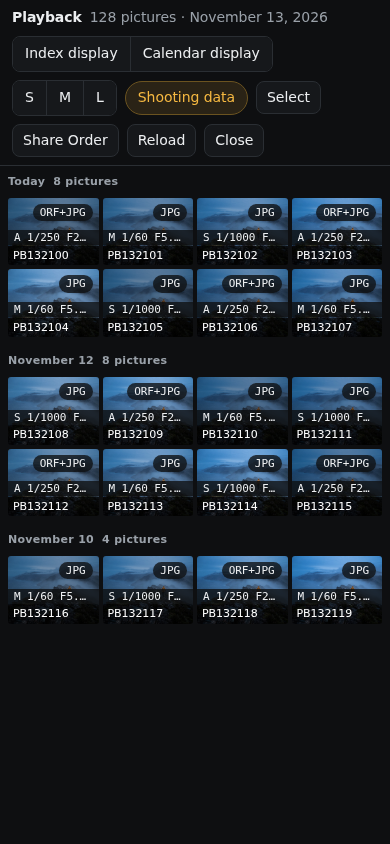
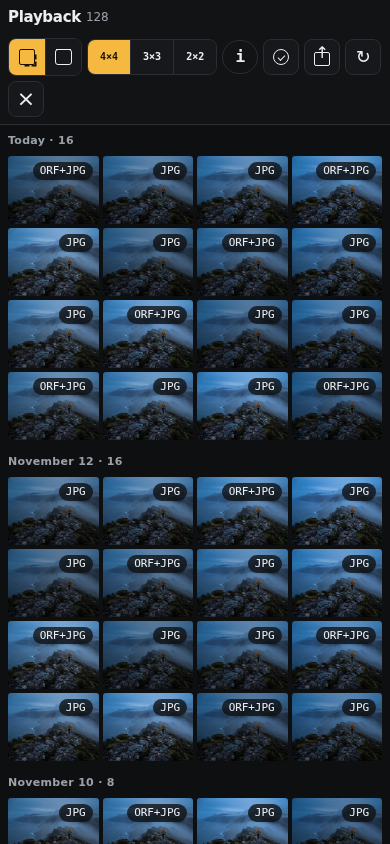
Simplify playback navigation
Add iOS-style pinch grid zoom through 2x2, 3x3, 4x4, and calendar; reduce toolbar text; refine the full-picture viewer; and refresh playback previews.

Figma-Prompt-ID: 170
Figma-Session-ID: 9e63d428-c352-4131-b44d-27a1b17f3922

diff --git a/omcap/web/index.html b/omcap/web/index.html
@@ -232,6 +232,38 @@ dialog h2{margin-top:12px}
 
 #viewer button{background:var(--surface);color:var(--text);border-color:var(--line)}
 #viewer button.on{background:var(--accent);color:var(--accent-ink)}
+.sr-only{position:absolute!important;width:1px!important;height:1px!important;padding:0!important;margin:-1px!important;overflow:hidden!important;clip:rect(0,0,0,0)!important;white-space:nowrap!important;border:0!important}
+#galBody{padding:12px;touch-action:pan-y;overscroll-behavior:contain}
+#galOv .galbar{min-height:54px;padding:8px 14px;background:#111315}
+#galOv .galbar strong{font-size:var(--fs-heading);letter-spacing:-.02em}
+#galCount{font-size:var(--fs-meta);white-space:nowrap}
+.gallery-icon{position:relative;width:36px!important;min-width:36px;height:36px!important;padding:0!important;font-size:0!important;display:inline-flex;align-items:center;justify-content:center}
+.gallery-icon::before,.gallery-icon::after{content:"";position:absolute;display:block}
+.icon-index::before{width:14px;height:14px;border:1.5px solid currentColor;border-radius:2px;box-shadow:7px 0 0 -5.5px currentColor,0 7px 0 -5.5px currentColor,7px 7px 0 -5.5px currentColor}
+.icon-calendar::before{width:15px;height:14px;border:1.5px solid currentColor;border-radius:3px}
+.icon-calendar::after{width:15px;height:4px;top:10px;border-top:1.5px solid currentColor}
+.icon-info::before{content:"i";position:static;font:700 16px/1 var(--font-value)}
+.icon-select::before{width:14px;height:14px;border:1.5px solid currentColor;border-radius:50%}
+.icon-select::after{width:6px;height:3px;border:solid currentColor;border-width:0 0 1.5px 1.5px;transform:rotate(-45deg);top:15px}
+.icon-share::before{width:14px;height:12px;border:1.5px solid currentColor;border-radius:2px;bottom:8px}
+.icon-share::after{content:"↑";position:static;font:16px/1 var(--font-ui);transform:translateY(-4px)}
+.icon-reload::before{content:"↻";position:static;font:18px/1 var(--font-ui)}
+.icon-close::before{content:"×";position:static;font:22px/1 var(--font-ui)}
+.icon-fit::before{width:14px;height:14px;border:1.5px dashed currentColor;border-radius:2px}
+.icon-download::before{content:"↓";position:static;font:18px/1 var(--font-ui)}
+.icon-overlay::before{width:13px;height:13px;border:1.5px solid currentColor;border-radius:2px;box-shadow:4px -4px 0 -2px #111315,4px -4px 0 -1px currentColor}
+.grid-size{font-size:0!important}
+.grid-size::after{font:600 10px/1 var(--font-value)}
+.grid-size[data-sz="4"]::after{content:"2×2"}
+.grid-size[data-sz="9"]::after{content:"3×3"}
+.grid-size[data-sz="16"]::after{content:"4×4"}
+#galExifTog{width:36px;padding:0;justify-content:center}
+#galExifTog .icon-info{display:flex;align-items:center;justify-content:center}
+#galExifTog .icon-info::before{content:"i";font:700 16px/1 var(--font-value)}
+.gidx{transform-origin:center top;transition:opacity var(--t-fast),transform var(--t-fast)}
+#viewer .galbar{min-height:54px;border-color:#2a2d31;background:rgba(10,11,13,.94);flex-wrap:nowrap}
+#viewer #vInfo{min-width:0;overflow:hidden;text-overflow:ellipsis;white-space:nowrap;font-size:var(--fs-meta);color:var(--muted)}
+#viewer .gallery-icon{flex:0 0 38px}
 .chip{display:inline-flex;gap:6px;align-items:center;background:var(--surface);border:1px solid var(--line);border-radius:var(--r-pill);padding:3px 10px;font-size:var(--fs-label)}
 body.single{background:#000;height:100vh;overflow:hidden}
 body.webcam{cursor:none;display:flex;align-items:center;justify-content:center}
@@ -401,6 +433,16 @@ section h2{margin-bottom:10px;color:#b9bec4;font-size:var(--fs-label);font-weigh
   label[data-feat=lvsize]{display:none!important}
   #panels{gap:8px}
   #panelNav button{height:50px}
+  #galOv .galbar{gap:5px;padding:7px 8px}
+  #galCount{max-width:180px;overflow:hidden;text-overflow:ellipsis}
+  #galOv .galbar>.sp{display:block;flex-basis:100%;height:0;margin:0}
+  #galBody{padding:8px}
+  .gidx{gap:4px}
+  .dayh{margin-top:14px}
+  .tile .cap{font-size:9px;padding:1px 4px}
+  #viewer .galbar{padding:6px 8px;gap:4px}
+  #viewer #vInfo{position:absolute;left:12px;right:12px;bottom:10px;z-index:3;padding:5px 8px;border-radius:var(--r-pill);background:rgba(10,11,13,.78);text-align:center}
+  #viewer .galbar>.sp{margin-left:auto}
   section{padding:12px}
   #props label{min-height:62px}
   #shutRow{display:flex;justify-content:center;gap:14px}
@@ -664,19 +706,19 @@ section h2{margin-bottom:10px;color:#b9bec4;font-size:var(--fs-label);font-weigh
     <span id="galChip" class="chip" hidden></span>
     <span class="sp"></span>
     <div class="seg" role="group" data-i18n-aria="card.display" aria-label="Display">
-      <button data-v="index" data-i18n="card.index">Index display</button><button data-v="cal" data-i18n="card.calendar">Calendar display</button>
+      <button class="gallery-icon icon-index" data-v="index" data-i18n-title="card.index"><span class="sr-only" data-i18n="card.index">Index display</span></button><button class="gallery-icon icon-calendar" data-v="cal" data-i18n-title="card.calendar"><span class="sr-only" data-i18n="card.calendar">Calendar display</span></button>
     </div>
     <div class="seg" role="group" data-i18n-aria="card.sizes" aria-label="Thumbnail size">
-      <button data-sz="25" data-i18n="card.sizeS">S</button><button data-sz="9" data-i18n="card.sizeM">M</button><button data-sz="4" data-i18n="card.sizeL">L</button>
+      <button class="grid-size" data-sz="16" data-i18n-aria="card.grid4">4×4</button><button class="grid-size" data-sz="9" data-i18n-aria="card.grid3">3×3</button><button class="grid-size" data-sz="4" data-i18n-aria="card.grid2">2×2</button>
     </div>
-    <label class="tog" id="galExifTog"><input type="checkbox" id="galExif"> <span data-i18n="card.exifLine">Shooting data</span></label>
-    <button id="galSelect" data-i18n="card.select">Select</button>
+    <label class="tog" id="galExifTog"><input type="checkbox" id="galExif"><span class="icon-info" aria-hidden="true"></span><span class="sr-only" data-i18n="card.exifLine">Shooting data</span></label>
+    <button id="galSelect" class="gallery-icon icon-select" data-i18n-title="card.select">Select</button>
     <button id="galSaveSel" hidden data-i18n="card.saveSel">Save selected</button>
-    <button id="galShare" data-feat="share_order" data-i18n="card.share">Share Order</button>
+    <button id="galShare" class="gallery-icon icon-share" data-feat="share_order" data-i18n-title="card.share">Share Order</button>
     <button id="galShareSave" data-feat="share_order" data-i18n="card.shareSave" hidden>Save all to computer</button>
     <button id="galShareReset" data-feat="share_order" data-i18n="card.shareReset" hidden>Reset Share Order</button>
-    <button id="galReload" data-i18n="card.reload">Reload</button>
-    <button id="galClose" data-i18n="card.close">Close</button>
+    <button id="galReload" class="gallery-icon icon-reload" data-i18n-title="card.reload">Reload</button>
+    <button id="galClose" class="gallery-icon icon-close" data-i18n-title="card.close">Close</button>
   </div>
   <div id="galBody"></div>
 </div>
@@ -685,9 +727,9 @@ section h2{margin-bottom:10px;color:#b9bec4;font-size:var(--fs-label);font-weigh
     <button id="vPrev" aria-label="Previous picture" data-i18n-aria="card.prev">‹</button><button id="vNext" aria-label="Next picture" data-i18n-aria="card.next">›</button>
     <span id="vInfo"></span>
     <span class="sp"></span>
-    <button id="vInfoBtn" data-i18n-title="info.title"></button>
-    <button id="vFit" data-i18n="view.fit">Fit</button>
-    <button id="vGet" data-i18n="card.saveToMac">Save to computer</button><button id="vHsl" data-i18n="hsl.btn">HSL</button><button id="vWs" hidden data-i18n="view.ws">Open in OM Workspace</button><button id="vOvl" data-i18n="card.overlay">Overlay</button><button id="vClose" data-i18n="card.close">Close</button>
+    <button id="vInfoBtn" class="gallery-icon icon-info" data-i18n-title="info.title"></button>
+    <button id="vFit" class="gallery-icon icon-fit" data-i18n-title="view.fit">Fit</button>
+    <button id="vGet" class="gallery-icon icon-download" data-i18n-title="card.saveToMac">Save to computer</button><button id="vHsl">HSL</button><button id="vWs" hidden data-i18n="view.ws">Open in OM Workspace</button><button id="vOvl" class="gallery-icon icon-overlay" data-i18n-title="card.overlay">Overlay</button><button id="vClose" class="gallery-icon icon-close" data-i18n-title="card.close">Close</button>
   </div>
   <div id="vBody">
     <div id="vImgBox"><img id="vImg" alt=""><div id="vStrip" hidden></div></div>
@@ -760,6 +802,9 @@ const I18N={en:{
   "card.sizeS": "S",
   "card.sizeM": "M",
   "card.sizeL": "L",
+  "card.grid4": "Four-column grid",
+  "card.grid3": "Three-column grid",
+  "card.grid2": "Two-column grid",
   "card.exifLine": "Shooting data",
   "card.select": "Select",
   "card.selectDone": "Done",
@@ -1570,8 +1615,9 @@ function renderStrip12(){
       The camera works through requests one by one, hence at most two at a time. */
 const GAL_KEY='omcap.gallery', MONTHS=tr('months').split(',');
 function loadGal(){try{return JSON.parse(localStorage.getItem(GAL_KEY))||{}}catch{return{}}}
+const GAL_LEVELS=[4,9,16];
 const gv={n:9,mode:'index',day:null,month:null,exif:false,info:'simple',...loadGal(),day:null};
-if(![4,9,25].includes(gv.n)) gv.n=gv.n>25?25:9; // older versions also had 100 per page
+if(!GAL_LEVELS.includes(gv.n)) gv.n=9;
 if(!['image','simple','overall'].includes(gv.info)) gv.info='simple';
 function saveGal(){try{localStorage.setItem(GAL_KEY,JSON.stringify({n:gv.n,mode:gv.mode,exif:gv.exif,info:gv.infoSet?gv.info:undefined,infoSet:gv.infoSet}))}catch{}}
 /* Shooting data (EXIF) per path, one request each; the server reads only the start of each file */
@@ -1717,7 +1763,7 @@ function renderGal(){
     const t=makeTile(s.preview);
     t.classList.toggle('sel',selSet.has(s.preview.path));
     const bd=document.createElement('div'); bd.className='bd'; bd.textContent=s.types; t.append(bd);
-    if(gv.n<=25){const c=document.createElement('div');c.className='cap';c.textContent=`${s.name} · ${tr('date.short',{mon:MONTHS[s.dt.m-1].slice(0,3),d:s.dt.d,time:pad(s.dt.h)+':'+pad(s.dt.mi)})}`;t.append(c)}
+    if(gv.n<=9){const c=document.createElement('div');c.className='cap';c.textContent=s.name;t.append(c)}
     t.onclick=()=>{
       if(selMode){const k=s.preview.path;selSet.has(k)?selSet.delete(k):selSet.add(k);t.classList.toggle('sel',selSet.has(k));
         $('#galSaveSel').textContent=tr('card.saveSel',{n:selSet.size});$('#galSaveSel').disabled=!selSet.size;return}
@@ -1823,6 +1869,30 @@ document.querySelectorAll('[data-v]').forEach(b=>b.onclick=()=>{
   saveGal();renderGal();
 });
 document.querySelectorAll('[data-sz]').forEach(b=>b.onclick=()=>{gv.n=+b.dataset.sz;saveGal();renderGal()});
+function zoomGallery(direction){
+  if(!cardShots) return;
+  if(gv.mode==='cal'){
+    if(direction>0){gv.mode='index';gv.n=16;saveGal();renderGal()}
+    return;
+  }
+  const i=GAL_LEVELS.indexOf(gv.n);
+  if(direction>0&&i>0) gv.n=GAL_LEVELS[i-1];
+  else if(direction<0&&i<GAL_LEVELS.length-1) gv.n=GAL_LEVELS[i+1];
+  else if(direction<0&&i===GAL_LEVELS.length-1){gv.mode='cal';gv.day=null}
+  else return;
+  saveGal();renderGal();
+}
+const galBody=$('#galBody');
+let galleryPinch=null;
+const touchDistance=e=>Math.hypot(e.touches[0].clientX-e.touches[1].clientX,e.touches[0].clientY-e.touches[1].clientY);
+galBody.addEventListener('touchstart',e=>{if(e.touches.length===2)galleryPinch={distance:touchDistance(e),done:false}},{passive:true});
+galBody.addEventListener('touchmove',e=>{
+  if(!galleryPinch||galleryPinch.done||e.touches.length!==2)return;
+  const ratio=touchDistance(e)/galleryPinch.distance;
+  if(ratio>1.22||ratio<.78){e.preventDefault();galleryPinch.done=true;zoomGallery(ratio>1?1:-1)}
+},{passive:false});
+galBody.addEventListener('touchend',e=>{if(e.touches.length<2)galleryPinch=null},{passive:true});
+galBody.addEventListener('wheel',e=>{if(!e.ctrlKey)return;e.preventDefault();zoomGallery(e.deltaY<0?1:-1)},{passive:false});
 /* Single image */
 let vToken=0;
 function viewerUrl(f){
@@ -1872,7 +1942,7 @@ function prefetchNeighbors(){
 }
 /* Picture information: Image only -> Simplified display -> Overall display (INFO button, manual p.62) */
 const INFO_MODES=['image','simple','overall'];
-function infoButton(){$('#vInfoBtn').textContent=tr('info.'+gv.info);$('#vInfoBtn').classList.toggle('on',gv.info!=='image')}
+function infoButton(){const b=$('#vInfoBtn'),text=tr('info.'+gv.info);b.title=text;b.setAttribute('aria-label',text);b.classList.toggle('on',gv.info!=='image')}
 function drawVHist(){
   const im=$('#vImg'),c=$('#vHist'),g=c.getContext('2d');
   g.clearRect(0,0,c.width,c.height);
@@ -1925,8 +1995,9 @@ async function showInfo(s,token){
 }
 $('#vInfoBtn').onclick=()=>{gv.info=INFO_MODES[(INFO_MODES.indexOf(gv.info)+1)%3];gv.infoSet=true;saveGal();if(vList[vIdx])showInfo(vList[vIdx],vToken)};
 $('#vImg').onload=()=>{if(gv.info==='overall')drawVHist()};
-$('#vFit').onclick=()=>{const b=$('#vImgBox');b.classList.toggle('full');$('#vFit').textContent=tr(b.classList.contains('full')?'view.full':'view.fit')};
-function openViewer(list,i){vList=list;vIdx=i;$('#viewer').hidden=false;$('#vImgBox').classList.remove('full');$('#vFit').textContent=tr('view.fit');showShot()}
+function fitButton(){const full=$('#vImgBox').classList.contains('full'),b=$('#vFit'),text=tr(full?'view.full':'view.fit');b.title=text;b.setAttribute('aria-label',text)}
+$('#vFit').onclick=()=>{const b=$('#vImgBox');b.classList.toggle('full');fitButton()};
+function openViewer(list,i){vList=list;vIdx=i;$('#viewer').hidden=false;$('#vImgBox').classList.remove('full');fitButton();showShot()}
 function closeViewer(){vToken++;$('#viewer').hidden=true;$('#vImg').removeAttribute('src');pump()}
 function stepViewer(d){const n=vIdx+d;if(n>=0&&n<vList.length){vIdx=n;showShot()}}
 $('#vPrev').onclick=()=>stepViewer(-1);

diff --git a/design/DESIGN.md b/design/DESIGN.md
@@ -102,6 +102,9 @@ recording a movie, read only, Wi-Fi drop-out (last good frame kept, "No signal f
 - **Index display:** thumbnail grid grouped by day, sizes S/M/L, multi-select (save to computer),
   "Share Order only" filter, badges ORF+JPG, movie length, Share. Optional one-line EXIF on each
   thumbnail (mode, shutter speed, aperture, ISO).
+- **Grid zoom:** pinch apart moves 4×4 → 3×3 → 2×2; pinch together moves 2×2 → 3×3 → 4×4
+  → Calendar. Trackpad pinch follows the same sequence. The compact toolbar mirrors these states
+  with icons instead of explanatory text.
 - **Calendar display:** month grid (weeks start Monday), a thumbnail and a count per day; a click
   opens that day in Index display.
 - **Single-frame playback:** picture at 4:3 with the value strip, previous/next, Fit / 100 %
